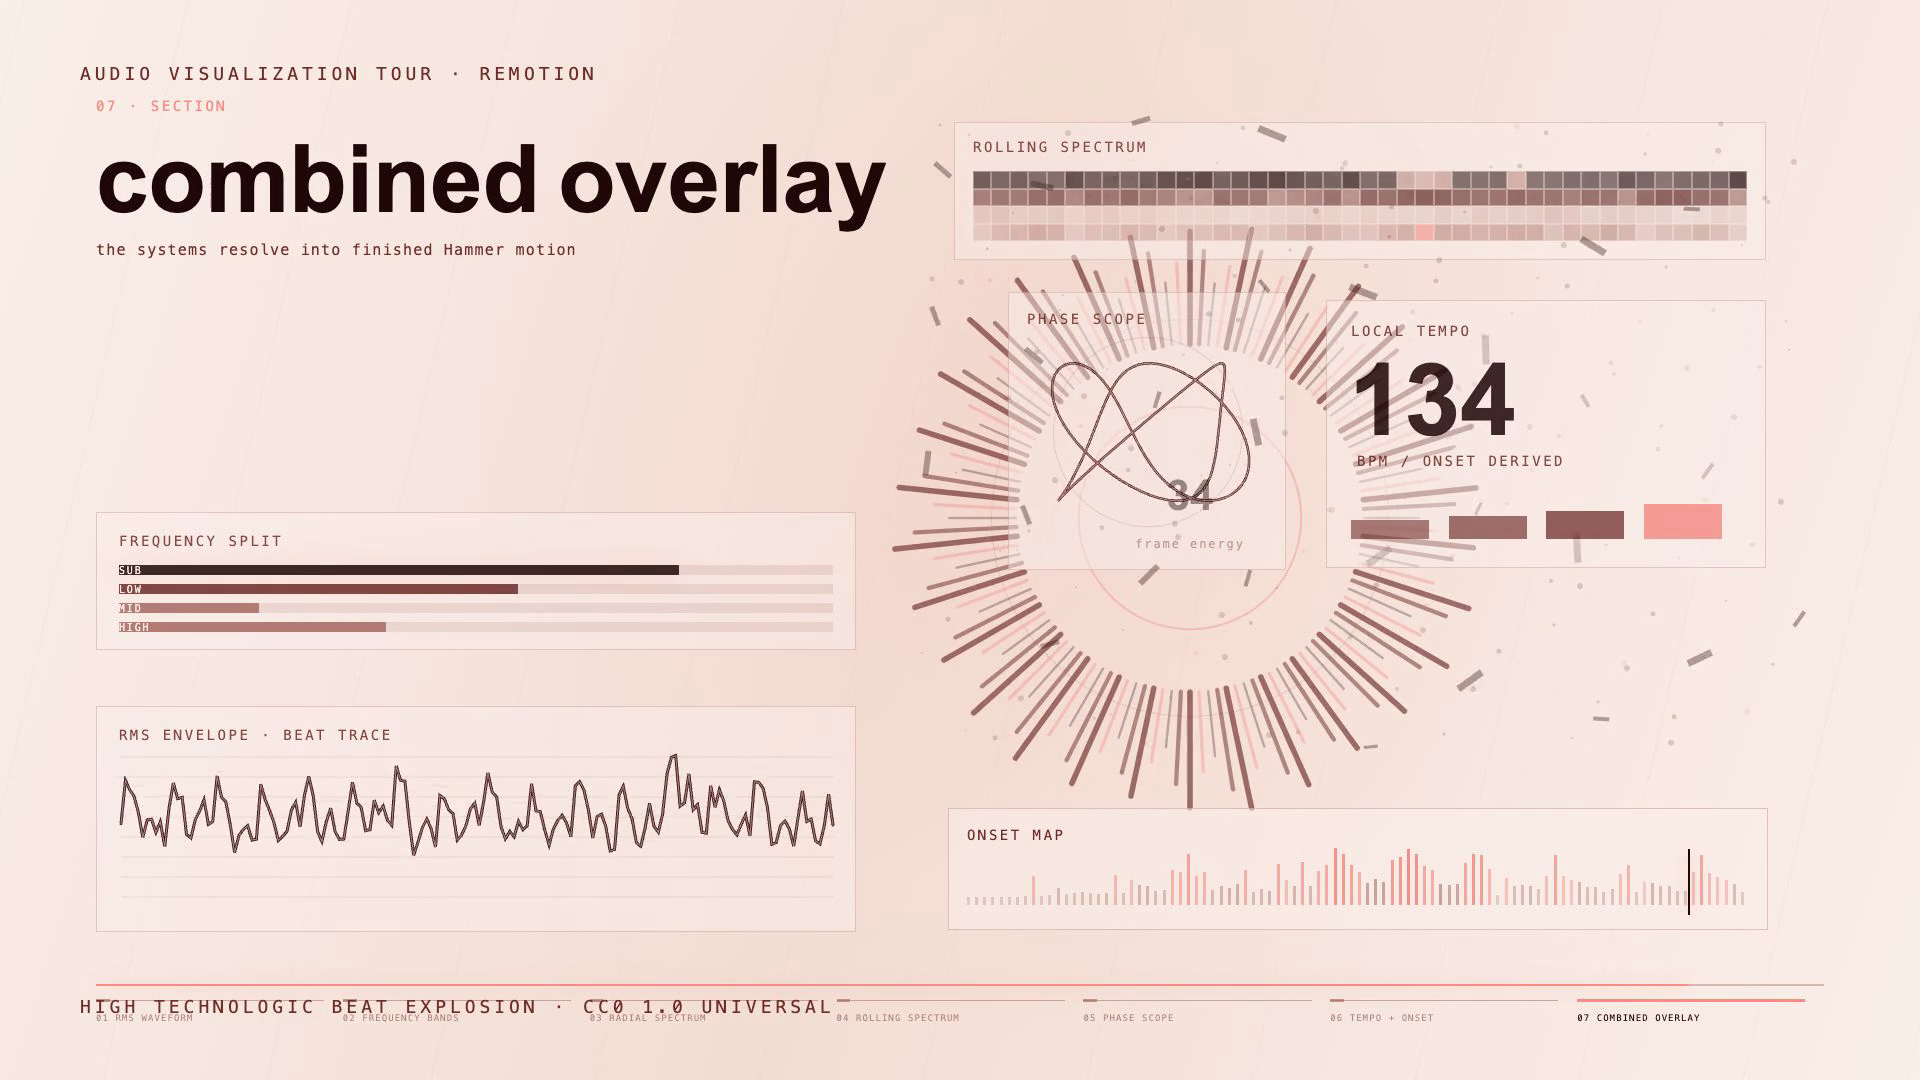
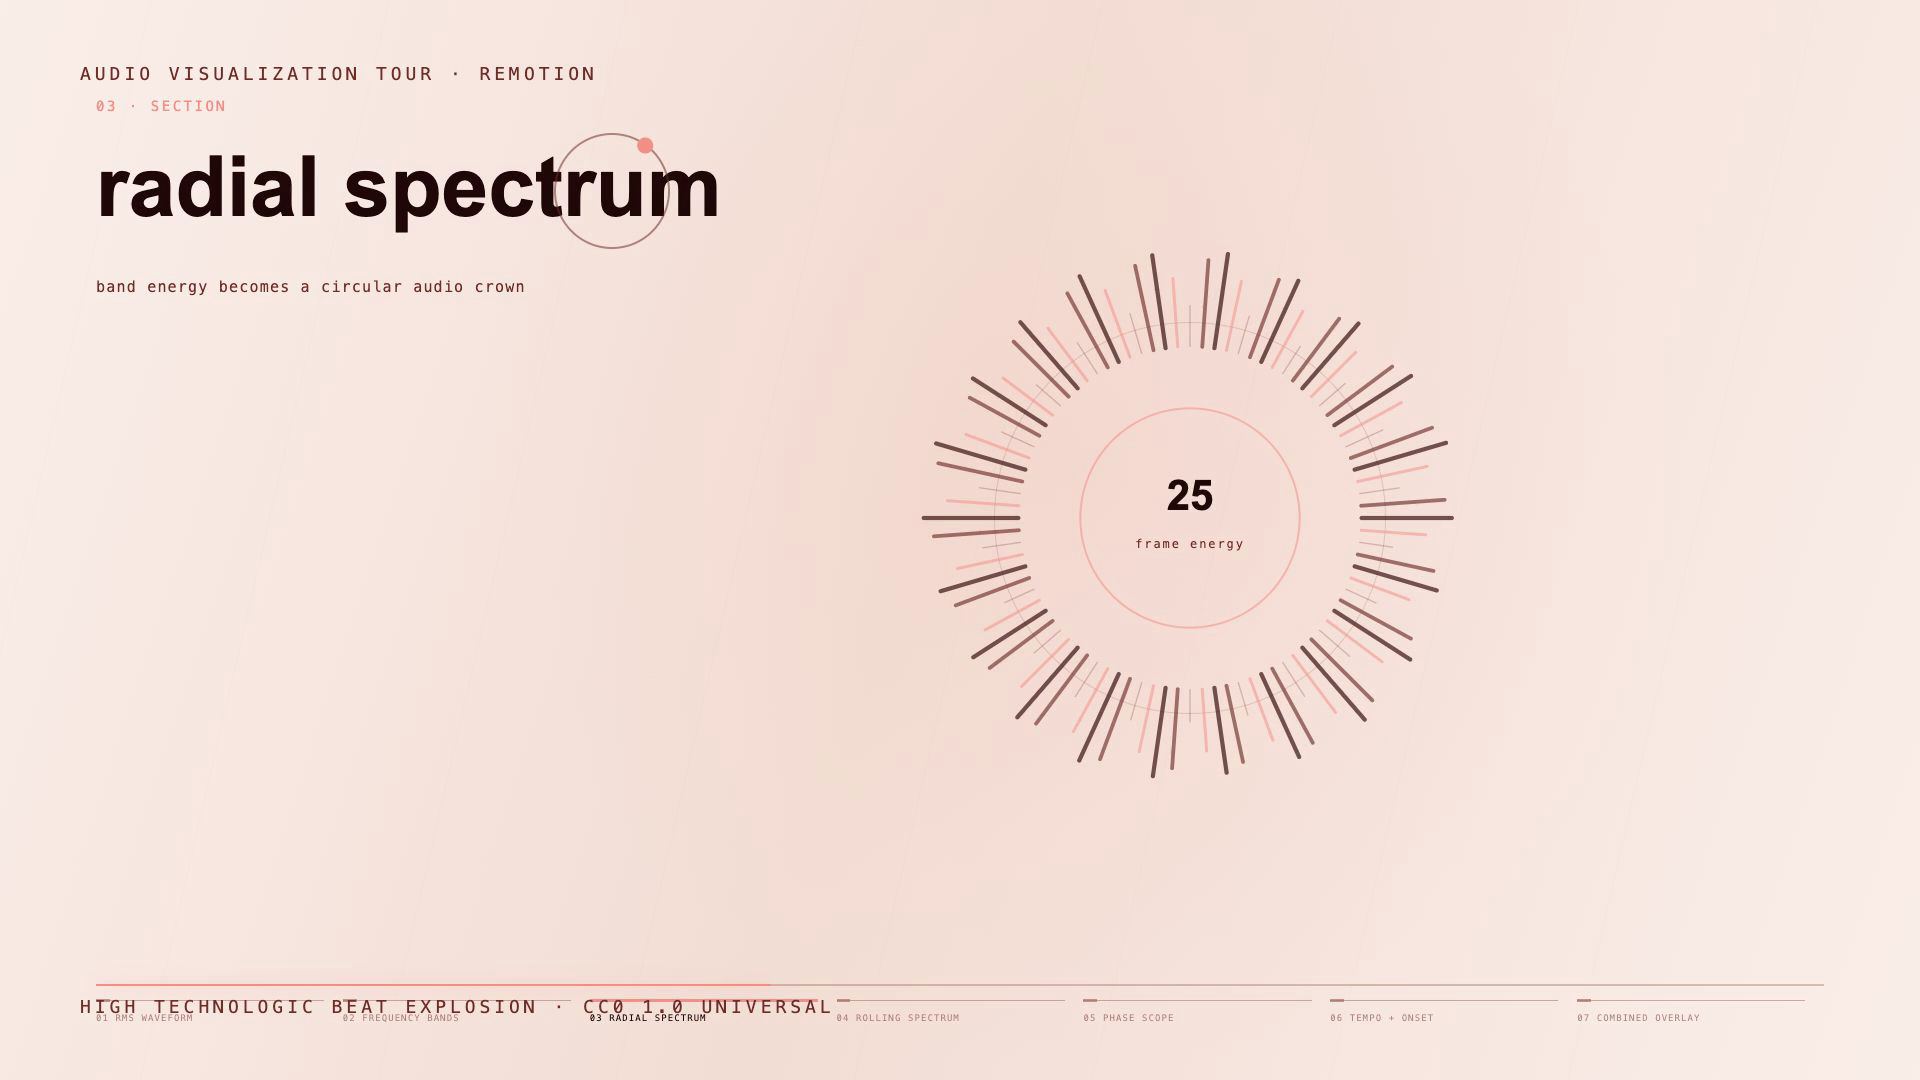
Fix audio-reactive overlay playback

diff --git a/app/work/[slug]/[piece]/page.tsx b/app/work/[slug]/[piece]/page.tsx
@@ -626,10 +626,7 @@ function AudioReactiveOverlayDetail({ transitionName }: { transitionName: string
             preload="metadata"
             poster="/work/motion/audio-reactive/audio-reactive-overlay-poster.png"
           >
-            <source
-              src="/work/motion/audio-reactive/audio-reactive-overlay-h264.mp4"
-              type='video/mp4; codecs="avc1.640032, mp4a.40.2"'
-            />
+            <source src="/work/motion/audio-reactive/audio-reactive-overlay-h264.mp4" type="video/mp4" />
           </video>
         </div>
       </div>